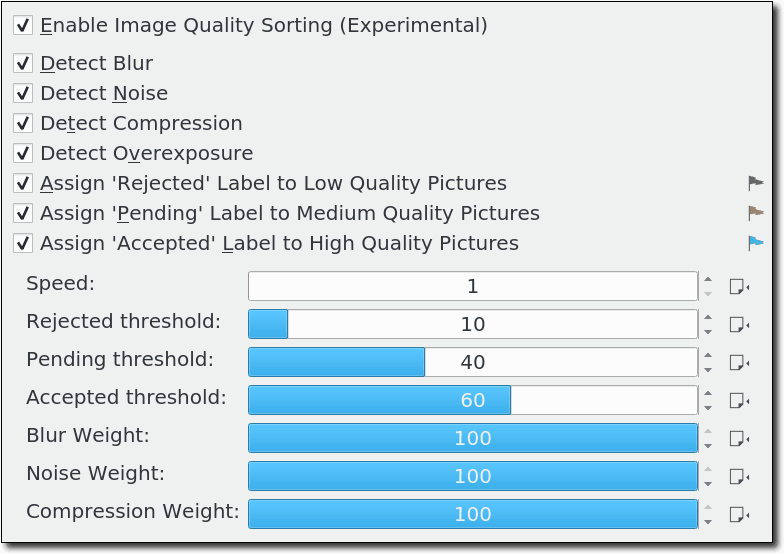
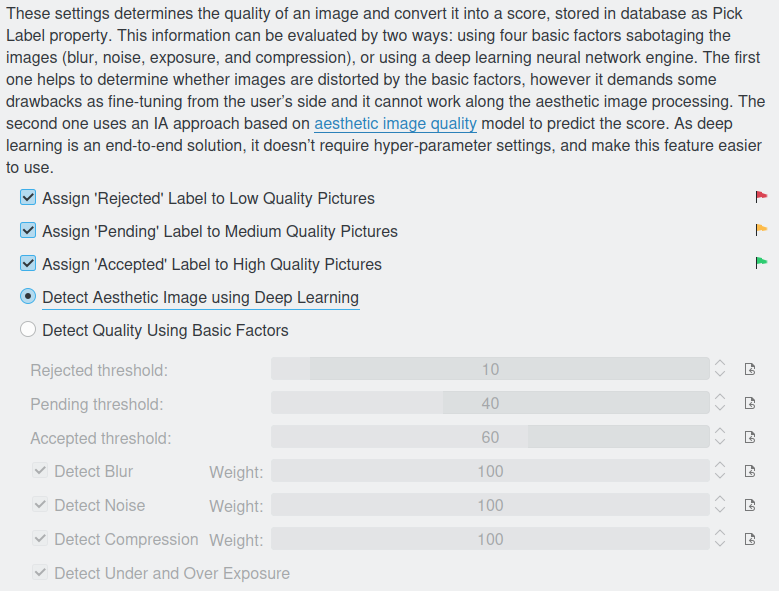
setup++

diff --git a/setup_dialog/imgqsort_settings.rst b/setup_dialog/imgqsort_settings.rst
@@ -1,0 +1,26 @@
+.. meta::
+   :description: digiKam Image Quality Sorting Settings
+   :keywords: digiKam, documentation, user manual, photo management, open source, free, learn, easy
+
+.. metadata-placeholder
+
+   :authors: - Gilles Caulier <caulier dot gilles at gmail dot com>
+
+   :license: Creative Commons License SA 4.0
+
+.. _imgqsort_settings:
+
+Image Quality Sorting Settings
+==============================
+
+.. contents::
+
+These settings refer to the Image Quality Sorter tool which you can access via Tools → Maintenance. 
+
+.. figure:: images/setup_quality.png
+
+Through the first checkbox you can enable or disable the whole function. With the four “Detect ...” options you can choose which kind of fault should be factored in by the Image Quality Sorter. Talking about factoring in: the factors for blur, noise and compression can set with the help of the three “... Weight” adjustment bars at the bottom.
+
+With the three “Assign ... Label ...” options you can decide to which image quality level a label should be assigned. Un-checking all three of them renders the Image Quality Sorter useless, of course. The thresholds for these levels can be set through the three “... threshold” adjustment bars. It will normally take some testing and trying out to find the settings that suits your needs. Note that the input, i.e. the images the process has to investigate, will have quite some influence. It's a difference whether you choose an album containing images which are all more or less o.k. and have only minor differences or if you present a collection of pictures where some of the pictures really have some bad blur, noise, ... You also have to consider at which point of your workflow you want to perform this operation. Right after importing the files from your camera is probably a good idea.
+
+With the topmost of the adjustment bars you can adjust the speed of the process in three steps. Slow speed (1) should lead to better results.

diff --git a/setup_dialog.rst b/setup_dialog.rst
@@ -31,3 +31,4 @@ Using the digiKam setup dialog
    setup_dialog/editor_settings.rst
    setup_dialog/cm_settings.rst
    setup_dialog/lighttable_settings.rst
+   setup_dialog/imgqsort_settings.rst

diff --git a/index.rst b/index.rst
@@ -312,6 +312,10 @@ Setup Dialog
 
         :ref:`lighttable_settings`
 
+    .. container:: tile no-descr
+
+        :ref:`imgqsort_settings`
+
 .. toctree::
    :maxdepth: 2
    :hidden:
